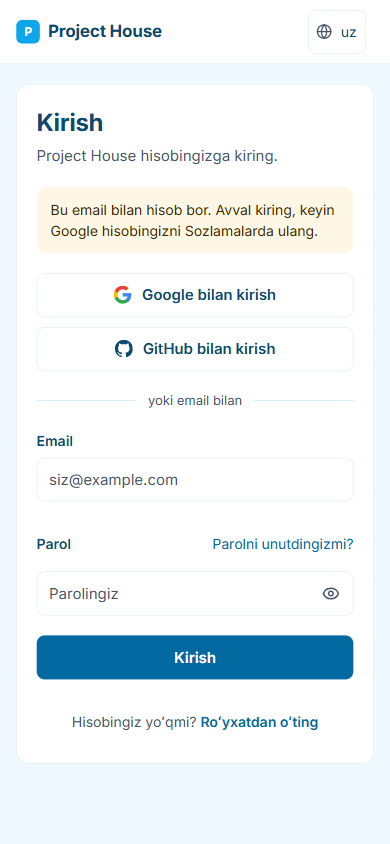
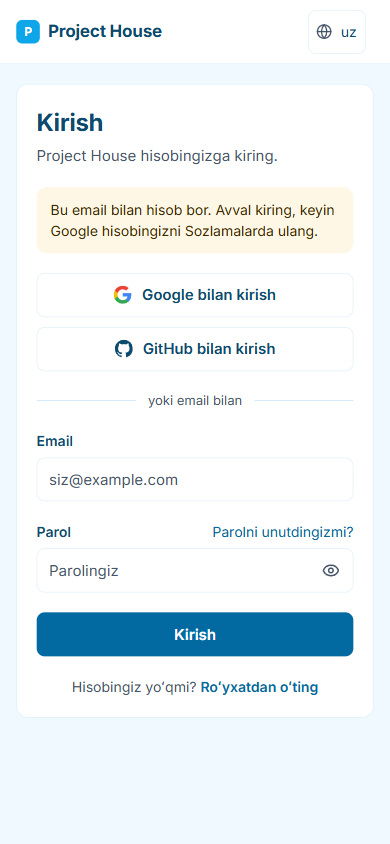
fix(frontend): focused inputs show the designed 3 px halo; refresh login screenshots
Advisor comparison: the drawing's focused field has the primary border plus
a 3 px accent-soft halo; ours only changed the border colour. The stale
account-exists screenshot is re-shot; MATCH.md records the comparison.

Changed region(s): [[0.0923, 0.6161, 0.9231, 0.8626]]

diff --git a/frontend/src/components/auth/TextField.tsx b/frontend/src/components/auth/TextField.tsx
@@ -59,7 +59,7 @@ export function TextField({
       <div
         className={`flex h-11 items-center rounded-control border bg-card md:h-10.5 ${
           error ? "border-danger" : "border-border"
-        } focus-within:border-primary`}
+        } focus-within:border-primary focus-within:shadow-[0_0_0_3px_var(--color-accent-soft)]`}
       >
         {prefix && <span className="pl-3 text-ui text-mute">{prefix}</span>}
         <input

diff --git a/docs/design/screenshots/login/MATCH.md b/docs/design/screenshots/login/MATCH.md
@@ -1,0 +1,16 @@
+# Login page: drawing vs build
+
+Drawing: `docs/design/2026-11-18-auth-mockup.html` (approved by Bek 2026-11-18). Compared by
+screenshots and computed styles; checked by the advisor.
+
+| Screenshot pair | Result |
+|---|---|
+| `design-login-desktop.png` vs `ours-login-1280.png` / `ours-login-1280-focus.png` | card, title, provider buttons, divider, labels, inputs, eye, forgot link, button, footer within about 1 px; focused input has the primary border and the 3 px accent-soft halo |
+| `design-login-error-phone.png` vs `ours-login-error-390.png` | match within 1-2 px |
+| `design-login-account-exists-phone.png` vs `ours-login-account-exists-390.png` | text and placement match |
+| `ours-login-1440.png` | the same card centred on a wider screen |
+
+Known differences (accepted):
+- "Lenta" sits about 6 px further right: its link has a 44 px touch area (same as on every page).
+- Phone: the language button ends 24 px from the right edge instead of 16 px (the empty user slot keeps its gap when its links are hidden on the login page).
+- Provider buttons only show when Google/GitHub login is switched on; the screenshots ran with both on.
